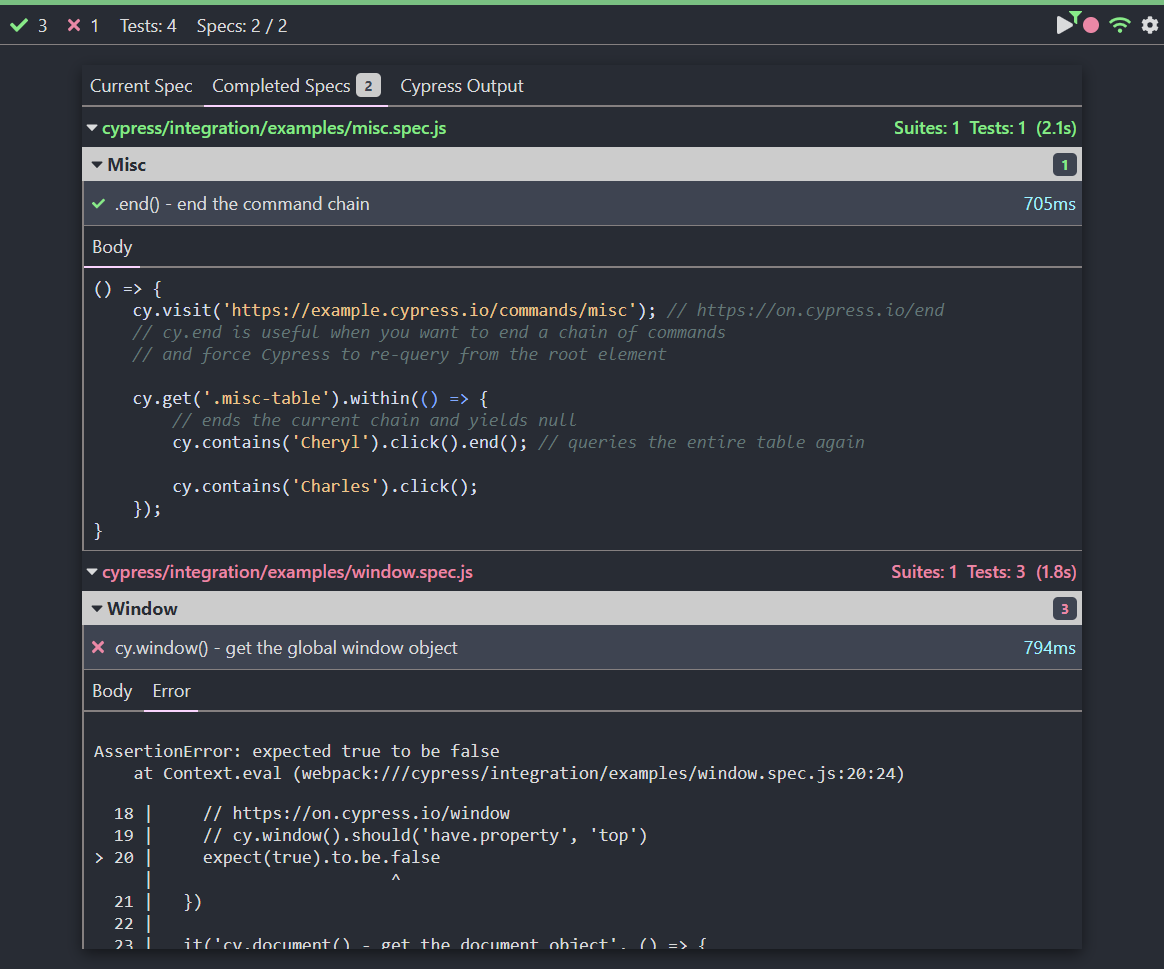
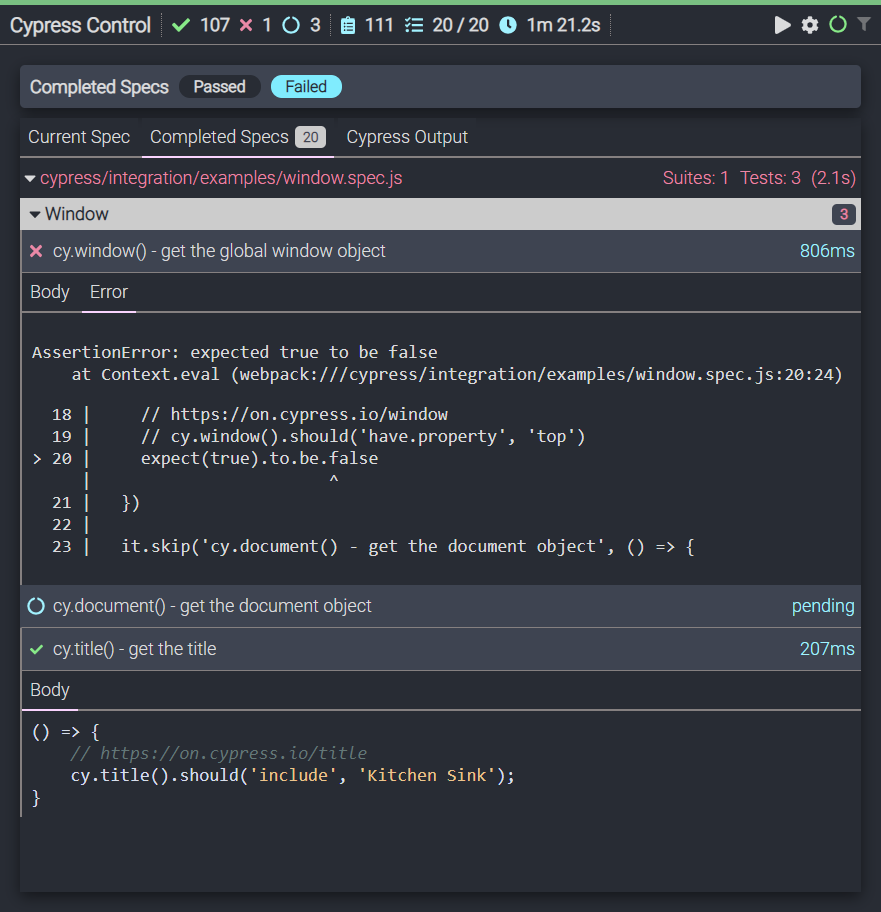
Update README and frontend image

diff --git a/README.md b/README.md
@@ -4,13 +4,15 @@
 
 Cypress Control adds a frontend to Cypress to start and stop Cypress, selectively run a subset of specs and to visualize the run in real-time.
 
+![Completed Cypress Run](https://raw.githubusercontent.com/israelnyc/cypress-control/master/assets/images/completed_run_passing_failing_specs.png)
+
 ## Install
 
 ```bash
 npm install @israelnyc/cypress-control
 ```
 
-Require Cypress Control in a directory with Cypress installed.
+Require Cypress Control in a directory where Cypress is installed.
 
 ```javascript
 const cypressControl = require('@israelnyc/cypress-control')();
@@ -54,8 +56,4 @@ runner.start();
 
 ## Runner Results
 
-View runner results in real-time in the browser via the port the server started on.
-
-The following image shows the completed run results of the default Cypress examples specs. The green filter icon by the runner play button indicates that a subset of tests are selected. In this case, just two specs were selected when Cypress ran.
-
-![Completed Cypress Run](https://raw.githubusercontent.com/israelnyc/cypress-control/master/assets/images/completed_run_passing_failing_specs.png)
+View runner results in real-time in the browser via the port the server was started on.
